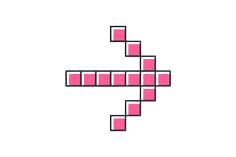
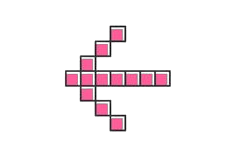
design : 뒤로가기 버튼 추가하기

Changed region(s): [[0.3263, 0.1529, 0.7415, 0.8408], [0.2669, 0.4331, 0.2966, 0.5605]]

diff --git a/src/pages/Mypage.jsx b/src/pages/Mypage.jsx
@@ -36,36 +36,38 @@ export default function Mypage() {
   }
 
   return (
-    <>
-      <div>
-        <div>
-          <S.Nickname>{displayName}님의 게시글</S.Nickname>
-        </div>
-        <S.BalanceContainer>
-          {findId && findId.length > 0 ? (
-            findId.map((balance) => (
-              <S.BalanceBox
-                key={balance.id}
-                onClick={() => goQuestion(balance.id)}
-              >
-                <S.BalanceImage src="/image/box.png" alt="Box Image" />
-                <S.BalanceTextContainer>
-                  <S.BalanceText textColor="000000">
-                    {balance.title}
-                  </S.BalanceText>
-                </S.BalanceTextContainer>
-              </S.BalanceBox>
-            ))
-          ) : (
-            <S.Comment>
-              아직 작성한 게시물이 없어용!!!
-              <br />
-              작성해볼까요??
-            </S.Comment>
-          )}
-          {/* </div> */}
-        </S.BalanceContainer>
-      </div>
-    </>
+    <div>
+      <S.GoBack
+        src="/image/pink-arrow.png"
+        alt="뒤로가기 이미지"
+        onClick={() => navigate("/home")}
+      />
+      <S.MypageContainer>
+        <S.Nickname>{displayName}님의 게시글</S.Nickname>
+      </S.MypageContainer>
+      <S.BalanceContainer>
+        {findId && findId.length > 0 ? (
+          findId.map((balance) => (
+            <S.BalanceBox
+              key={balance.id}
+              onClick={() => goQuestion(balance.id)}
+            >
+              <S.BalanceImage src="/image/box.png" alt="Box Image" />
+              <S.BalanceTextContainer>
+                <S.BalanceText textColor="000000">
+                  {balance.title}
+                </S.BalanceText>
+              </S.BalanceTextContainer>
+            </S.BalanceBox>
+          ))
+        ) : (
+          <S.Comment>
+            아직 작성한 게시물이 없어용!!!
+            <br />
+            작성해볼까요??
+          </S.Comment>
+        )}
+      </S.BalanceContainer>
+    </div>
   );
 }

diff --git a/src/styles/style.mypage.js b/src/styles/style.mypage.js
@@ -1,13 +1,24 @@
 import { styled } from "styled-components";
 
-export const Nickname = styled.div`
-  font-weight: bold;
-  font-size: 30px;
+export const MypageContainer = styled.div`
   display: flex;
-  align-items: left;
-  margin: 50px auto 100px 2px;
-  text-decoration: underline;
-  color: white;
+  align-items: center;
+  justify-content: center;
+  margin: 50px auto 0;
+  font-size: 2rem;
+`;
+
+export const GoBack = styled.img`
+  width: 150px;
+  height: 100px;
+  cursor: pointer;
+`;
+
+export const Nickname = styled.div`
+  color: #ffffff;
+  margin-right: 5px;
+  margin-bottom: 50px;
+  font-weight: bold;
 `;
 export const BalanceTextBox = styled.div`
   margin: 15px 0;
@@ -21,6 +32,8 @@ export const BalanceContainer = styled.div`
   display: flex;
   flex-wrap: wrap;
   margin-left: auto;
+  align-items: center;
+  justify-content: center;
 `;
 
 export const BalanceBox = styled.div`

diff --git a/src/pages/Home.jsx b/src/pages/Home.jsx
@@ -89,9 +89,7 @@ function Home() {
     <>
       {/* 핫 게시글 */}
       <S.BestBalanceTitle>
-        <S.BestBalanceTitleSpan color="#FFFFFF">
-          Popularity
-        </S.BestBalanceTitleSpan>
+        <S.BestBalanceTitleSpan>Popularity</S.BestBalanceTitleSpan>
       </S.BestBalanceTitle>
       <S.WriteButtonBox>
         {isLoggedIn && (
@@ -118,7 +116,7 @@ function Home() {
         </S.BalanceContainer>
         {/* 모든 게시글*/}
         <S.BestBalanceTitle>
-          <S.BestBalanceTitleSpan color="#FFFFFF">
+          <S.BestBalanceTitleSpan>
             <S.ViewAllPost>모든 게시글</S.ViewAllPost>
           </S.BestBalanceTitleSpan>
         </S.BestBalanceTitle>

diff --git a/src/pages/Detail.jsx b/src/pages/Detail.jsx
@@ -149,10 +149,17 @@ function Detail() {
             <S.Button onClick={handleDeleteClick}>삭제</S.Button>
           </div>
         ) : (
-          <S.AuthorDebate>{data?.author}님의 논쟁입니다.</S.AuthorDebate>
+          <div>
+            <S.GoBack
+              src="/image/pink-arrow.png"
+              alt="뒤로가기 이미지"
+              onClick={() => navigate("/home")}
+            />
+            <S.AuthorDebate>{data?.author}님의 논쟁입니다.</S.AuthorDebate>
+          </div>
         )}
       </div>
-      <S.PostTitle>{data.title}</S.PostTitle>
+      <S.PostTitle>"{data.title}"</S.PostTitle>
       <div>
         <S.PostContent>
           상황:

diff --git a/src/styles/style.detail.js b/src/styles/style.detail.js
@@ -91,15 +91,25 @@ export const VoteResult = styled.div`
   margin: 0 auto;
 `;
 
+export const GoBack = styled.img`
+  width: 150px;
+  height: 100px;
+  margin-right: 1200px;
+  cursor: pointer;
+  position: relative;
+`;
+
 // 작성자 닉네임 (ex: 나는 딸기가 좋아님의 논쟁입니다.)
 export const AuthorDebate = styled.p`
-  font-size: 2em;
+  font-size: 2.5em;
   font-weight: bolder;
+  text-shadow: 2px 2px 4px rgba(0, 0, 0, 0.3);
+  /* padding-bottom: 200px; */
 `;
 
 export const PostTitle = styled.div`
-  font-size: larger;
-  font-weight: bold;
+  font-size: 1.5em;
+  font-weight: bolder;
   margin-bottom: 20px;
 `;
 
